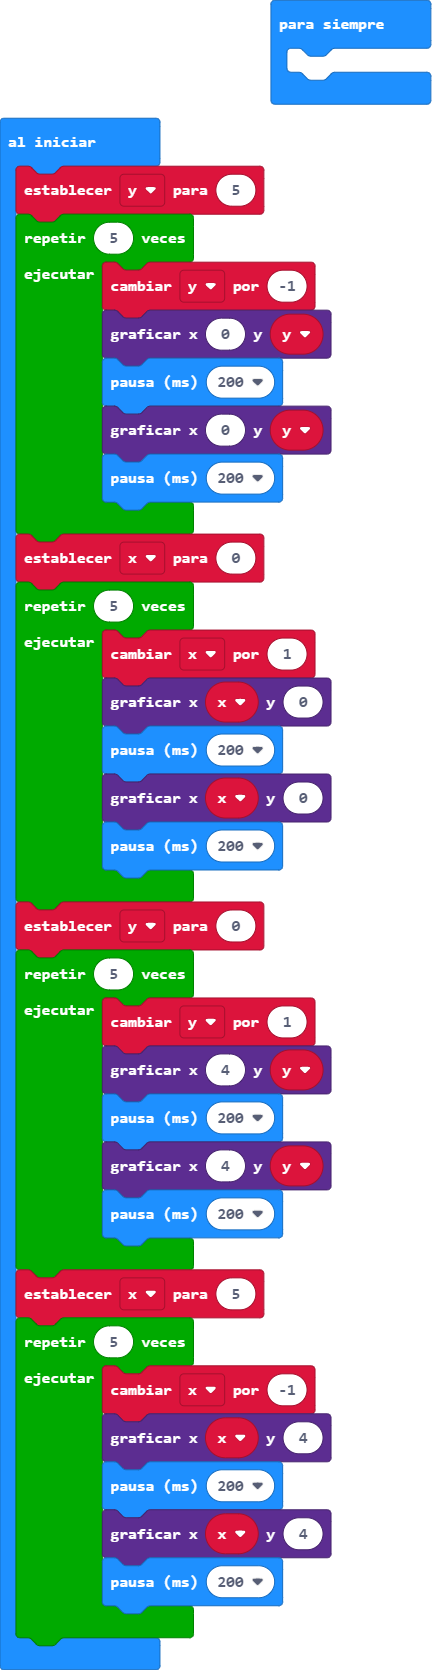
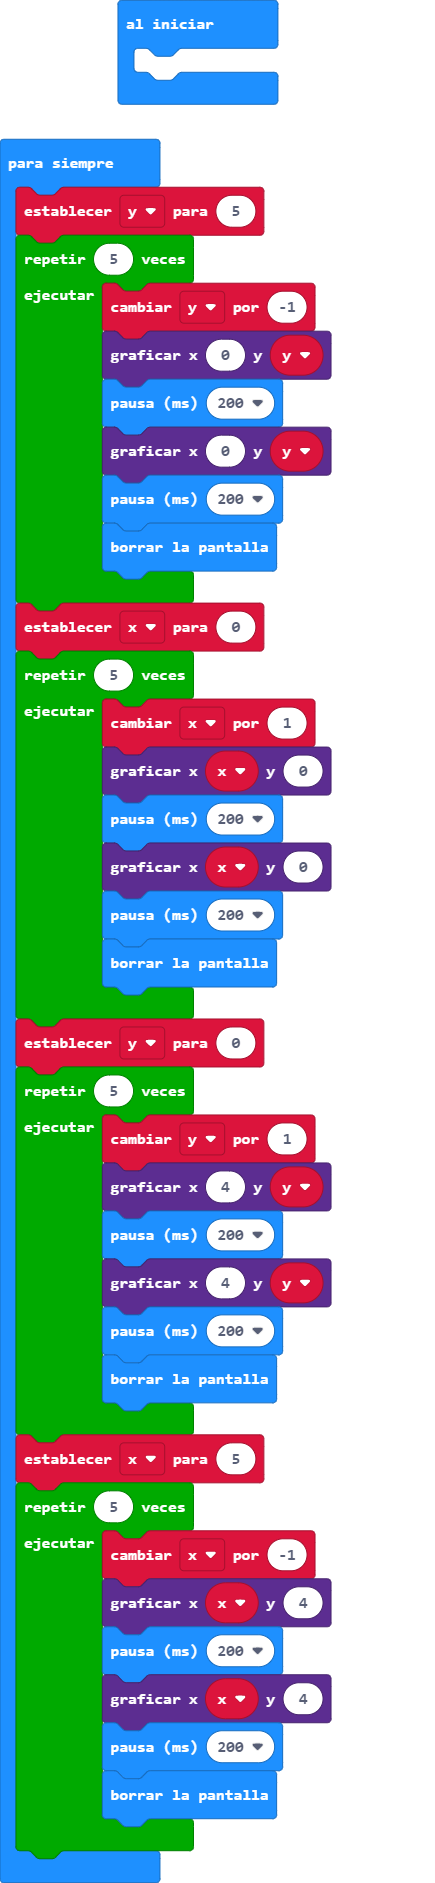
Actualizar main.blocks, main.ts

Changed region(s): [[0.0, 0.0, 1.0, 0.9964]]

diff --git a/main.ts b/main.ts
@@ -1,35 +1,40 @@
-let y = 5
-for (let index = 0; index < 5; index++) {
-    y += -1
-    led.plot(0, y)
-    basic.pause(200)
-    led.plot(0, y)
-    basic.pause(200)
-}
+let y = 0
 let x = 0
-for (let index = 0; index < 5; index++) {
-    x += 1
-    led.plot(x, 0)
-    basic.pause(200)
-    led.plot(x, 0)
-    basic.pause(200)
-}
-y = 0
-for (let index = 0; index < 5; index++) {
-    y += 1
-    led.plot(4, y)
-    basic.pause(200)
-    led.plot(4, y)
-    basic.pause(200)
-}
-x = 5
-for (let index = 0; index < 5; index++) {
-    x += -1
-    led.plot(x, 4)
-    basic.pause(200)
-    led.plot(x, 4)
-    basic.pause(200)
-}
 basic.forever(function () {
-	
+    y = 5
+    for (let index = 0; index < 5; index++) {
+        y += -1
+        led.plot(0, y)
+        basic.pause(200)
+        led.plot(0, y)
+        basic.pause(200)
+        basic.clearScreen()
+    }
+    x = 0
+    for (let index = 0; index < 5; index++) {
+        x += 1
+        led.plot(x, 0)
+        basic.pause(200)
+        led.plot(x, 0)
+        basic.pause(200)
+        basic.clearScreen()
+    }
+    y = 0
+    for (let index = 0; index < 5; index++) {
+        y += 1
+        led.plot(4, y)
+        basic.pause(200)
+        led.plot(4, y)
+        basic.pause(200)
+        basic.clearScreen()
+    }
+    x = 5
+    for (let index = 0; index < 5; index++) {
+        x += -1
+        led.plot(x, 4)
+        basic.pause(200)
+        led.plot(x, 4)
+        basic.pause(200)
+        basic.clearScreen()
+    }
 })
